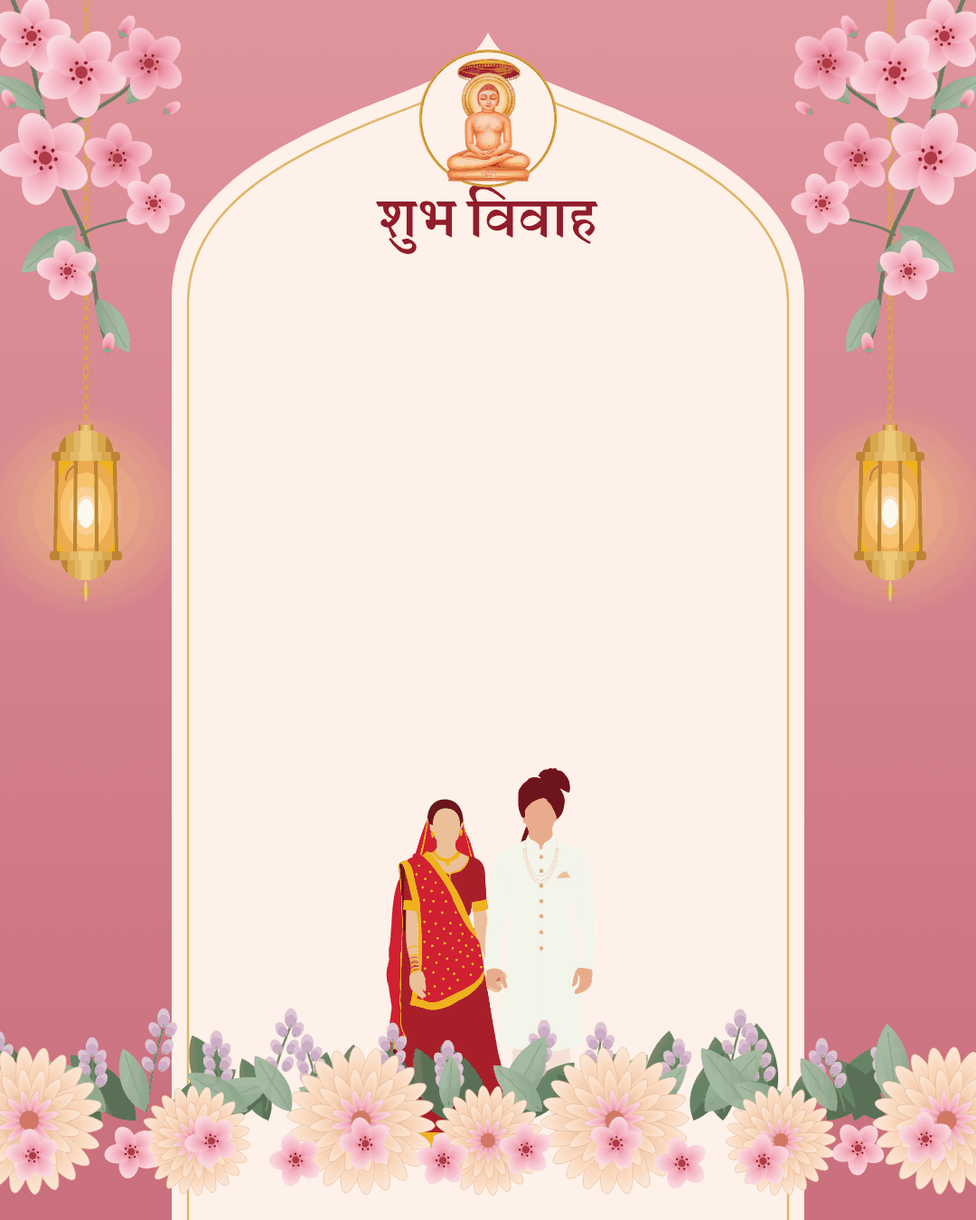
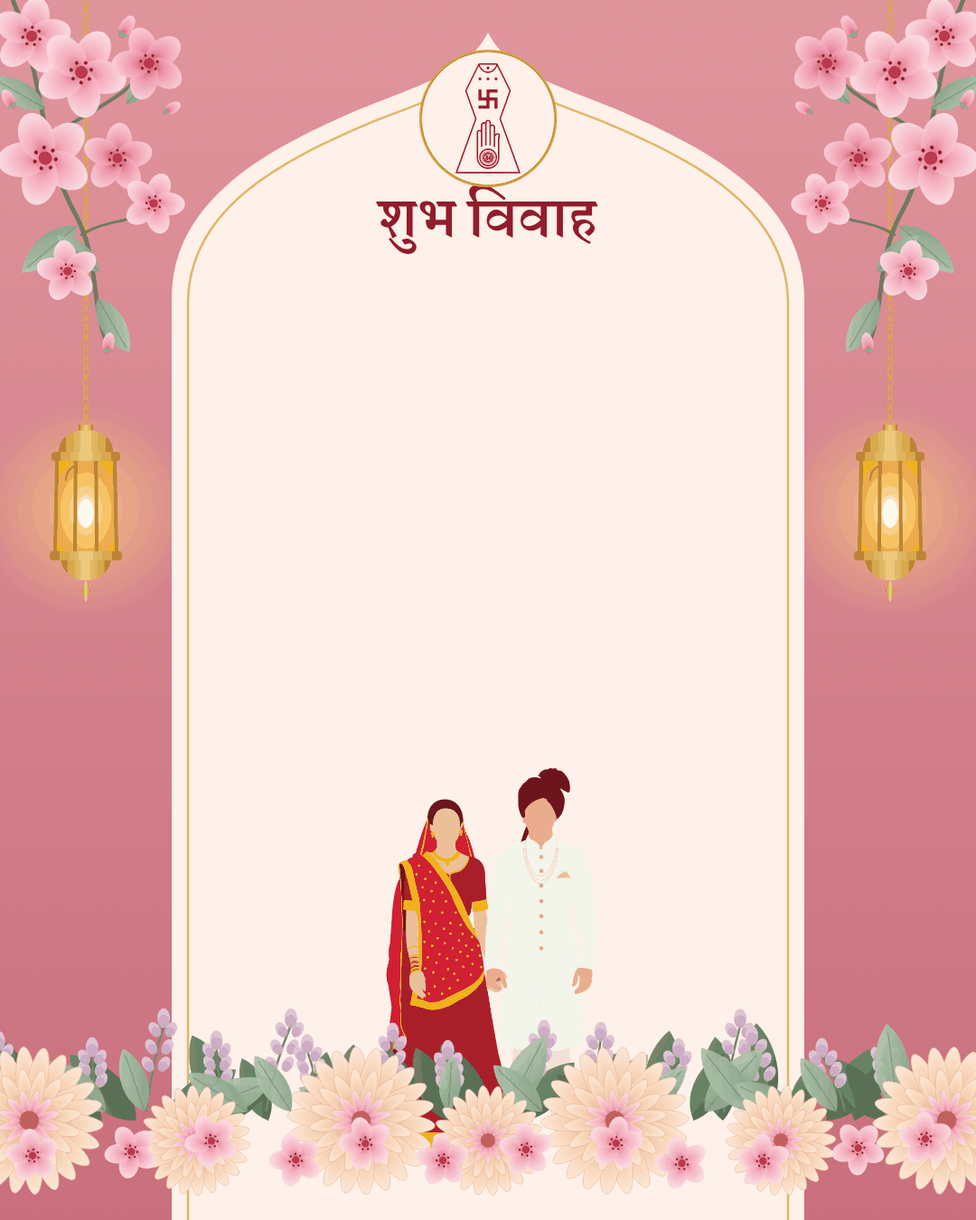
Show the Jain Prateek on a Jain invite instead of Bhagwan Mahaveer
The product owner asked for the Jain symbol in place of the picture of
Bhagwan Mahaveer. The Prateek is traced once with potrace from their
picture into one vector path (components/invite/jain-prateek-path.ts). The
opening card draws it in the Ganesh colour where Shri Ganesh stands. The
invite's arch shows the same path as public/invite/jain-prateek.svg, and the
share card shows it in the cream medallion. mahaveer.webp is removed.

Claude-Session: https://claude.ai/code/session_014q9NE1nsN31r1hYXvboVQM

Changed region(s): [[0.4583, 0.0311, 0.55, 0.1556]]

diff --git a/components/invite/jain-prateek-path.ts b/components/invite/jain-prateek-path.ts
@@ -1,0 +1,15 @@
+/**
+ * The Jain Prateek, the symbol of the Jain faith, as one vector path: the
+ * outline of the loka, the crescent and dot of the Siddhashila, the three
+ * dots of the three jewels, the swastika, and the raised hand with the
+ * wheel and "अहिंसा". The view box is 387 by 651. Fill it with
+ * `fill-rule="evenodd"`: the holes are sub-paths.
+ *
+ * Traced once with potrace from the product owner's picture (2026-11-03),
+ * upscaled 4x, so it stays sharp at any size. A Jain family's invite shows it
+ * in place of Shri Ganesh (`lib/invite-openings.ts`).
+ */
+export const JAIN_PRATEEK_VIEWBOX = { width: 387, height: 651 } as const;
+
+export const JAIN_PRATEEK_PATH =
+  'M141 5.8C140.4 5.9 139.7 6.2 139.4 6.4C139.2 6.7 137.3 10.2 135.2 14.4C133.2 18.5 129.8 25.5 127.6 30C121.1 43.2 114.7 56 110.1 65.4C100.8 84.3 96.2 93.6 93.4 99.2C88.8 108.6 80.9 124.8 71.4 143.8C63.1 160.6 61.5 164 61.5 165C61.5 165.8 63 170 70.1 189.9C70.8 191.7 72 195.2 72.9 197.6C73.7 200.1 74.9 203.2 75.4 204.6C76.9 208.7 77.4 210.2 79.1 215.1C80.9 220.3 81.7 222.3 84 228.9C84.8 231.2 85.8 234.1 86.2 235.2C87 237.5 88.1 240.5 89.8 244.9C90.3 246.4 91.3 249.2 92 251.1C95.6 261.3 96.3 263.4 97.3 266.2C98.8 270.3 100.7 275.6 102.5 280.8C103.3 283 105.1 288.1 106.5 292C107.9 295.9 109.8 301.1 110.6 303.6C111.5 306.1 112.7 309.4 113.2 310.9C119.3 327 119.4 327.3 117.4 332.5C116.8 334.2 115.6 337.7 114.7 340.2C113.8 342.8 112.3 346.7 111.5 348.9C110.7 351.1 109.5 354.2 109 355.9C108.4 357.5 107.2 360.8 106.3 363.2C103.7 370.3 103.2 371.8 100.8 378.5C99.6 382 98 386.4 97.2 388.4C96.5 390.3 95.3 393.6 94.6 395.6C92.3 402.4 89.9 408.9 88.3 413.1C87.7 414.5 86.9 416.8 86.4 418.2C85.9 419.7 84.9 422.6 84.1 424.8C81.7 431.2 80.6 434.4 79 438.9C77.7 442.7 76.1 447 74.4 451.8C72.4 457.3 70.3 463 68.9 467C68 469.5 67 472.2 66.7 472.9C66.2 474 63.4 481.8 62.2 485.2C62 486 61 488.6 60.1 491.1C59.2 493.6 57.9 497.4 57.1 499.5C56.4 501.6 55.3 504.6 54.8 506.1C54.2 507.6 53.1 510.8 52.3 513.1C51.4 515.4 50.5 517.9 50.1 518.7C49.8 519.5 49 521.6 48.4 523.5C47.8 525.4 46.9 527.9 46.4 529.1C45.1 532.6 43.5 537.2 41.5 542.6C40.5 545.4 38.8 550.1 37.7 553.1C36.6 556.1 35.4 559.4 35.1 560.4C34.8 561.3 34.1 563.2 33.6 564.6C33.1 566 32.5 567.9 32.1 568.9C31.8 569.8 31.1 571.7 30.6 573C29.1 576.9 28.1 579.8 25.9 586C24.7 589.3 23.6 592.5 23.3 593.1C22.1 596.2 19.6 603.1 17 610.6C16.3 612.5 15.4 615.2 14.9 616.6C14.3 618 13.6 620 13.2 621C12.9 622 12.1 624.2 11.5 625.8C10.9 627.3 10.2 629.4 10 630.3C9.7 631.3 9.3 632.4 9.1 632.8C8.8 633.5 8.4 634.5 6.4 640C5.3 642.9 5.3 643.8 6.2 644.4C7.2 645.1 378.9 645.2 380.2 644.6C381.8 643.8 381.7 642.2 379.8 637.4C378.6 634.4 376.8 629.6 376.2 628C375.6 626 374 621.7 372.3 616.9C371.4 614.5 369.9 610.5 369 607.9C367 602.3 365.3 597.5 363.5 592.6C362.8 590.7 361.5 587.3 360.8 585C360 582.7 358.9 579.8 358.4 578.4C357.9 577 356.7 573.9 355.8 571.5C354.1 566.9 352.6 562.8 350.2 556C349.4 553.7 348.2 550.3 347.5 548.4C346.8 546.5 346.1 544.6 346 544.2C345.1 541.5 340.7 529.2 339.6 526.5C339.1 525.2 338 522.3 337.2 520C336.4 517.7 335 513.7 334 511C332.2 506 331.9 505.2 329.3 497.9C328.5 495.5 327 491.6 326.1 489.1C325.2 486.6 323.9 482.9 323.1 480.8C322.4 478.6 321.3 475.5 320.6 473.9C320 472.2 319.1 469.8 318.6 468.5C317.5 465.4 313.5 454.2 312.5 451.5C311.7 449.5 309.2 442.4 306.9 435.7C306.2 433.9 305.4 431.5 304.9 430.3C304.4 429.1 303.3 426 302.4 423.4C299.3 414.8 297.8 410.7 296.5 407.1C295.1 403.4 293.5 399.1 291.4 392.9C290 388.9 288.6 385 285.9 377.8C285 375.3 283.7 371.6 282.9 369.5C282.2 367.4 280.8 363.6 279.9 361.1C279 358.6 277.9 355.7 277.5 354.5C276.8 352.5 276.2 350.6 274.3 345.6C272.5 340.7 270 333.9 270 333.7C270 333.5 269.6 332.3 269 330.9C267.8 328 267.8 327 268.7 324.9C269 324.1 270.2 320.8 271.3 317.6C272.4 314.5 273.8 310.5 274.5 308.8C275.2 307 276.6 303.1 277.6 300C278.7 296.9 280 293.2 280.6 291.8C281.1 290.3 282.2 287.4 282.9 285.2C283.6 283.1 284.8 280 285.4 278.2C286 276.5 286.8 274.3 287.1 273.4C287.4 272.4 288.2 270.3 288.7 268.8C290.4 264.1 292.7 257.5 293.4 255.6C293.7 254.7 294.5 252.5 295.1 250.8C295.8 249 296.7 246.6 297.2 245.2C297.6 243.9 298.6 241.3 299.3 239.4C300.9 234.7 303.2 228.2 304.8 223.9C305.5 221.9 306.7 218.5 307.5 216.1C308.3 213.8 309.7 209.8 310.6 207.2C311.6 204.7 312.6 201.9 312.9 201C313.2 200.1 313.9 198.2 314.4 196.9C314.9 195.5 315.5 193.8 315.7 193C316 192.2 317 189.4 318 186.8C319.9 181.7 321.3 177.8 323 172.6C323.6 171 324.3 168.9 324.6 168.1C325.1 167 325.2 166 325.2 165C325.2 163.4 325.2 163.3 317.7 148.2C313.6 139.9 309.5 131.7 308.7 130C306.7 125.8 300.7 113.7 293.5 99.1C290.2 92.5 286 84 284.1 80.1C282.2 76.3 278.3 68.2 275.3 62.1C272.3 56.1 268.7 48.8 267.3 46C264 39.3 250.8 12.6 249.2 9.3C248.4 7.8 247.6 6.5 247.2 6.2C246.7 5.8 244.1 5.8 194.4 5.7C165.4 5.6 141.6 5.6 141 5.8M146.8 13.8C146.1 14.4 146.1 14.8 146.7 16.5C151.2 28.9 160.7 40.8 171.6 47.6C175.5 50 182.3 52.6 185.6 52.9C186.4 53 188.2 53.2 189.5 53.4C194.3 54.2 202.9 53.1 208.4 51C215.5 48.3 224.1 41.9 229.4 35.3C232.9 31 238.2 22.3 239.3 19.1C239.4 18.6 239.8 17.7 240 17.2C240.8 15.6 240.9 14.6 240.2 13.9L239.5 13.2 193.4 13.2C147.6 13.2 147.2 13.3 146.8 13.8M246 23.3C245.7 23.6 244.7 25.3 243.9 27C239.3 35.9 233.9 42.8 227.1 48.5C218.1 56 210.7 59.3 199.4 61C193.8 61.9 192.6 61.9 190.1 61.4C189.2 61.2 187.4 60.9 186.2 60.7C175.4 59.5 164.2 53.5 155.2 44.1C149.7 38.3 146.5 33.7 142.8 26.5C141.2 23.3 140.8 22.8 139.8 23.1C139.3 23.3 137.3 27.1 129 44.1C126.5 49.2 122.7 57 120.5 61.4C118.3 65.8 114.8 72.9 112.7 77.1C96.3 110.7 94.5 114.4 92.2 118.9C91.4 120.4 89.9 123.5 88.8 125.8C85.7 132 80.9 142 75.1 153.6C72.3 159.4 69.9 164.5 69.8 165C69.7 166 70 167.2 71.4 170.9C71.9 172.1 73.1 175.5 74.1 178.4C76.4 184.9 76.6 185.5 79 191.9C80.1 194.8 81.2 198 81.6 199.1C82.5 202.2 85.2 209.6 86.2 212.1C86.7 213.4 87.4 215.3 87.8 216.5C88.4 218.5 89.1 220.3 92.1 228.8C92.8 230.9 93.6 232.9 93.8 233.3C93.9 233.6 94.9 236.3 95.9 239.2C96.9 242.2 97.9 245.2 98.3 246C98.6 246.8 99.4 249.1 100.2 251.2C100.9 253.4 102 256.3 102.5 257.8C103 259.2 104 261.9 104.6 263.9C105.9 267.6 106.4 269 109.4 277.1C110.4 279.9 111.5 283.1 111.9 284.1C112.2 285.1 113.7 289.2 115.1 293.2C116.6 297.3 118.6 303 119.7 305.9C120.7 308.8 121.7 311.6 121.9 312.1C122.1 312.7 122.4 313.6 122.6 314.1C122.8 314.7 123.8 317.4 124.8 320.1C127.6 328.2 127.6 327.1 124.8 334.9C124.3 336.4 123.2 339.3 122.5 341.2C121.8 343.2 121 345.4 120.7 346.1C120.5 346.8 119.4 349.8 118.3 352.8C117.3 355.7 115.5 360.5 114.4 363.5C113.3 366.5 111.8 370.7 111 373C110.2 375.3 108.9 379 108 381.2C107.2 383.5 105.9 387.2 105.1 389.4C104.4 391.6 103.2 394.8 102.6 396.5C102 398.2 100.9 401.3 100.1 403.4C99.4 405.4 98.3 408.4 97.7 410C97.2 411.6 96 414.7 95.2 416.9C94.4 419.1 92.9 423.2 91.9 426.1C90.8 429 89.3 433.3 88.5 435.6C87.7 438 86.5 441.1 86 442.5C85.5 443.9 84.8 445.7 84.5 446.5C83.4 449.8 78.7 462.9 76.7 468.4C76 470.3 75.2 472.5 73.9 476.1C73.1 478.4 70.1 486.6 69.6 487.8C69.4 488.2 68.9 489.6 68.5 490.9C66.1 497.8 63.9 504.1 62.5 507.8C61 511.8 60.5 513.1 58.5 518.9C57.9 520.5 57.1 522.9 56.6 524.2C56.1 525.6 55 528.6 54.1 531.1C53.2 533.6 51.6 537.9 50.6 540.8C47.8 548.6 45.9 553.9 44 559.1C43.1 561.7 41.7 565.5 41 567.5C39.4 571.9 36.9 578.8 35.5 582.9C34.9 584.5 34.1 586.8 33.6 588C32.4 591 31.7 592.9 29.6 599C26.8 606.8 25.5 610.5 25 611.9C24.3 613.8 22.9 617.5 21.5 621.5C20.9 623.5 19.5 627.3 18.5 630C16.6 635.3 16.5 635.5 17.2 636.2C17.7 636.7 18.1 636.8 193.5 636.8L369.2 636.8 369.8 636.2C370.4 635.6 370.4 635.3 368.6 630.4C367.8 628.3 366.7 625 366 623.1C364.8 619.7 363.9 617.3 362.1 612.4C360.9 609.2 359.1 604 357.4 599C356.7 596.9 355.8 594.3 355.4 593.4C354.3 590.5 351.3 582.4 350 578.7C349.3 576.8 348.2 573.7 347.5 571.9C346.8 570.1 345.6 566.8 344.9 564.6C343.6 560.7 341.1 553.7 339.3 549C337.3 543.5 335.4 538.1 333.9 533.9C333 531.4 331.9 528.3 331.4 527C329.3 521.6 328.7 519.8 328.2 518.5C327.3 515.7 324.2 507 323.4 504.8C322.8 503.4 321.7 500.2 320.7 497.5C318.7 491.5 316.9 486.6 315.4 482.5C314.7 480.8 313.7 478 313.1 476.2C312.5 474.5 311.2 470.9 310.2 468.2C306.3 457.5 304.7 453 303.6 450C303 448.3 302 445.3 301.3 443.4C300.5 441.4 299.4 438.3 298.7 436.4C296.3 429.2 293.4 421.2 292.7 419.8C292.4 419.1 292.2 418.4 289.7 411.2C288.8 408.7 287.2 404.4 286.2 401.8C285.2 399.1 283.8 395 283 392.8C282.2 390.5 280.3 385.3 278.9 381.2C277.4 377.2 275.6 372.2 274.9 370.1C273.5 366.1 270.8 358.9 269.4 355C268.9 353.7 267.8 350.7 267 348.4C265 342.5 261.7 333.5 260.8 331.2C259.5 328 259.8 325.9 262.2 320.1C262.9 318.4 264.9 312.8 267.1 306.2C268 303.7 269.1 300.6 269.6 299.2C270.1 297.9 270.7 296.4 270.9 295.9C271.1 295.3 271.7 293.5 272.4 291.8C273 290 274 287.2 274.6 285.5C275.2 283.8 277.1 278.6 278.7 273.9C280.4 269.2 282.4 263.6 283.1 261.5C283.9 259.4 285.3 255.3 286.4 252.4C288.7 245.9 289.2 244.5 290.7 240.2C291.3 238.4 292.1 236.2 292.4 235.4C293.1 233.7 295.4 227.5 296.6 224C297.1 222.7 298.1 219.7 299 217.2C301.1 211.3 302.3 207.9 304.7 201.1C305.8 198 307.2 194 307.9 192.2C309.2 188.6 310.1 186.3 310.9 183.9C312 180.6 313.2 177.1 314.2 174.5C316.6 168.2 317.1 166.8 317.2 165.7C317.3 164.5 317.1 164.1 311.4 152.7C308.2 146.2 304.2 138.1 302.5 134.6C300.8 131.2 297.5 124.3 295 119.4C287.5 104.1 281.1 91.3 279.5 87.9C278.7 86.1 275.7 80.1 272.9 74.5C270.1 68.9 265.8 60.1 263.2 54.9C252.7 33.4 247.6 23.4 247.1 23.1C246.6 22.7 246.5 22.8 246 23.3M191 24.4C189.5 24.9 187.6 26.3 186.6 27.7C184.3 30.7 184.7 35.9 187.4 38.6C190.5 41.7 196.8 41.7 199.5 38.6C201.9 35.9 202.6 32 201.2 29.2C199.2 25.3 194.7 23.1 191 24.4M144.6 87.8C137.3 90.1 136.4 99.9 143.1 103.5C144.8 104.4 148.7 104.4 150.5 103.6C155.7 101.2 157.1 94.1 153.1 90.1C151 88 147.1 87 144.6 87.8M190.7 87.8C187.1 89.2 185.1 92 185.1 95.9C185.2 99.4 186.7 101.9 189.7 103.4C191.6 104.4 195.5 104.4 197.1 103.6C203.5 100.2 203.5 91.8 197.3 88.4C195.6 87.5 192.3 87.2 190.7 87.8M237.4 87.9C236.1 88.3 233.9 89.9 233.2 90.8C230.9 94.1 231.2 98.7 233.9 101.7C236 104.1 240.5 104.9 243.7 103.5C247.9 101.6 249.7 95.9 247.3 91.7C245.4 88.3 240.9 86.6 237.4 87.9M139.8 157.5C139.6 157.5 139 157.8 138.7 158.2L138.1 158.8 138.1 189.8L138.1 220.7 138.7 221.3L139.3 221.9 161.2 222L183 222.1 183.6 222.8L184.2 223.5 184.2 236.5C184.2 249.2 184.2 249.5 183.8 250C183.5 250.3 183.1 250.5 182.8 250.5C182.6 250.5 173 250.5 161.6 250.5C147.5 250.5 140.4 250.6 139.8 250.8C138 251.2 138 251.4 138 259.7C138 266.9 138 267 138.6 267.6C138.9 268 139.5 268.4 140 268.5C140.5 268.5 154.5 268.6 171.1 268.5L201.2 268.4 201.8 267.8L202.4 267.2 202.5 245.4L202.6 223.5 203.3 222.8L204 222.1 216.8 222.1L229.5 222.1 230.1 222.8L230.8 223.5 230.8 244.9C230.8 267.8 230.7 267.6 232 268.2C232.4 268.4 234.9 268.5 239.9 268.5C248.2 268.5 248.3 268.5 248.7 266.8C249.1 265.5 249.1 207 248.7 205.7C248.2 203.9 249.8 204 225.9 204C202.3 204 203.3 204.1 202.8 202.5C202.4 201.4 202.4 178.1 202.8 177C203.3 175.4 202.3 175.5 226 175.5L247.5 175.5 248.1 174.9C248.9 174.1 249.1 172.6 249 165.3C248.9 158.8 248.8 158.3 247.7 157.7C247.3 157.5 239 157.4 216.6 157.5C184.6 157.5 185.4 157.4 184.8 158.5C184.7 158.7 184.6 168.6 184.5 180.5C184.4 203.7 184.4 203.1 183.1 203.7C182.7 203.9 178.6 204 169.9 204L157.3 204 156.7 203.4L156.1 202.7 156 181C155.9 157.9 155.9 158.4 154.7 157.8C154.2 157.5 141.3 157.2 139.8 157.5M190.1 334.1C184.8 335.3 179.8 340 178.1 345.4C177.1 348.7 176.8 348.9 174.4 348C172.3 347.2 166.3 347.1 164.2 347.8C159.6 349.4 155.9 353 154.2 357.4C153.1 360.2 153 362 153 378.3C153 390.9 153 392.5 152.6 393C152.1 393.7 151.4 393.6 148.1 392.6C146.2 392 145.6 392 143.8 392.1C136.6 392.6 130.9 397.3 128.9 404.2L128.4 406.1 128.3 480.8C128.2 558.4 128.2 557.3 129.3 564.5C132.1 583.7 145.9 602.4 163.7 611.5C167 613.2 173.5 615.9 174.8 616.1C175.2 616.2 176.6 616.6 177.9 616.9C183.8 618.5 185 618.6 193.6 618.6C201.4 618.6 201.7 618.6 205 617.9C224.2 614 238.4 604.3 249.2 588.1C253.2 582 257.6 569.9 258.5 562.4C259 558.3 259 553.4 259.1 500.8C259.2 438.5 259 441.9 261.7 430C263.5 422.5 263 418.7 260.1 415.5C255.5 410.5 245.3 411 237.1 416.5C235.9 417.4 235.1 417.4 234.8 416.8C234.6 416.5 234.5 408.1 234.5 395.1L234.4 373.9 233.3 371.5C231 366.5 228.8 364.2 224.2 362.2C221.4 360.9 216.2 360.7 212.9 361.9C210 362.9 209.9 362.7 209.7 354.3C209.5 344.3 208.9 342.4 204.8 338.4C200.6 334.5 195.4 333 190.1 334.1M191.4 341.9C188.9 342.7 187.2 344.2 186.1 346.6L185.4 348.1 185.2 355C185.2 358.8 185.1 388.2 185.2 420.4C185.2 466.8 185.2 479.1 184.9 480.1C184.5 481.8 183.7 482.3 181.4 482.5C179.3 482.6 178.4 482.3 177.8 481.3C177.4 480.7 177.4 477.9 177.2 420.8L177.1 360.9 176.5 359.8C175.5 357.8 174.9 357.2 173.1 356.2C171.5 355.4 171.2 355.4 169 355.4C165.4 355.4 163 356.8 161.5 360L160.9 361.4 160.8 425.7L160.6 490 159.9 490.6C159.3 491.2 159 491.2 156.8 491.2C154.4 491.2 153.7 491.1 153.3 490.3C153.2 490.1 153.1 471.1 153 448.2L152.9 406.6 152.2 405.2C148.8 398.5 140.2 398.4 136.9 405L136.1 406.6 136.1 481C136 547.1 136 555.7 136.4 558.6C139.1 580.9 151.9 598.1 172.4 606.6C179.6 609.6 183.7 610.4 193.4 610.4C202.7 610.4 206.9 609.7 213.9 607.1C218.8 605.2 226.9 600.5 230.3 597.4C231.7 596.1 233.3 594.7 234 594.1C239.1 589.9 246.2 578.4 248.3 571C251.5 560.1 251.3 565.3 251.3 501.6C251.3 445 251.3 441.7 252.4 436.2C253.3 431.3 253.5 430.2 254.2 427.5C255.8 421.5 254.9 419.9 250.2 420.1C243.5 420.4 238 424.6 235.3 431.5L234.6 433.4 234.5 461.7L234.4 490 233.8 490.6C233.2 491.2 230.2 491.5 228.4 491.1C226.5 490.8 226.6 496.5 226.5 432.1L226.4 374.6 225.7 373.5C224.2 370.9 221.1 369 218.3 369C215.8 369 214.4 369.6 212.5 371.5C209.6 374.3 209.9 367.9 209.8 428.2C209.8 466.2 209.7 480.6 209.5 481C208.9 482.1 206.1 482.6 203.9 482C202 481.4 202.2 487.9 202.1 414.5L202.1 348.9 201.5 347.3C199.8 342.9 195.5 340.6 191.4 341.9M189.2 500.9C188.9 501 187.5 501.2 186.1 501.4C181.3 502.1 174.4 504.3 171.1 506.1C162.6 510.9 157.2 515.5 152.2 522.4C147.9 528.4 145.8 533.3 143.3 543C142.6 546.1 142.7 558.6 143.5 562.2C145.2 570.1 148.8 578.2 152.7 583.2C157.4 589.1 163.4 594.5 168.5 597.4C174.2 600.5 182.9 603.5 186.8 603.5C187.4 603.5 188.6 603.7 189.5 603.9C195 605.1 210.4 602.6 214.6 599.9C214.9 599.7 215.8 599.2 216.6 598.9C220.3 597.5 226.8 592.9 230.5 589.2C232.1 587.6 237.2 581.2 238.4 579.2C240.5 576 242.9 570.1 244.2 565.1C244.6 563.3 245.1 561.5 245.2 561C245.7 559.5 245.6 545.1 245.1 543.5C244.9 542.7 244.5 541 244.1 539.6C238.6 516.9 217.4 500.6 193.8 500.8C191.6 500.8 189.6 500.9 189.2 500.9M191.5 508.6C189.5 510.7 188.2 510.9 185.6 509.3C183.6 508 180.9 508.6 180.1 510.5C179.4 512.2 179.1 512.5 178.2 513C177 513.6 176.2 513.6 174.8 513C173.3 512.3 172.9 512.4 171.3 513.4C169.5 514.6 169.4 514.8 169 516.5C168.6 518.8 167.1 520 164.7 520C162.8 520 161.8 520.9 161.8 522.7C161.8 525.8 160.4 527.4 157.2 528.1C156.2 528.3 154.5 530.1 154.4 531.1C154.3 531.6 154.4 532.3 154.7 533.2C155.6 535.5 154.9 537.2 152.4 538.4C150.1 539.6 149.6 541.5 150.9 544.2C152 546.5 152 548.2 150.9 549.6C148.7 552.3 148.6 553.3 150.3 554.9C152 556.5 152.2 558.7 150.9 560.8C150.1 561.9 150 563.8 150.6 564.7C150.9 565 151.8 565.7 152.6 566.3C154.8 567.7 155.5 569.3 154.6 571.4C153.7 573.7 155.3 576.3 158.1 577.1C160.6 577.8 161.5 579.1 161.5 581.9C161.5 583.7 162.9 584.7 165.3 584.7C166.4 584.8 168.4 585.9 168.9 586.7C169.1 587.2 169.3 588 169.4 588.6C169.6 589.8 169.8 590.1 171.4 591.3C172.7 592.3 173.2 592.4 174.6 591.9C177 590.9 179 591.6 180 593.9C180.8 595.8 181.1 596 183.2 595.9C184.5 595.8 185.2 595.6 186 595.2C188 594 190.3 594.4 191.4 596.1C192.1 597.2 192.7 597.3 193.3 596.7C193.8 596.2 193.8 596.3 193 591C192.7 589.4 192.5 587 192.4 585.6C192.3 584.2 192 582.3 191.9 581.3C191.1 577.3 190.2 577.9 188.1 584C186.5 588.8 184.9 592.2 184.3 592.2C183.5 592.2 183.2 589.6 183.9 586.6C184.9 581.6 185.3 576.8 184.8 576.1C183.9 575 183.3 575.6 179.1 581.3C176.6 584.8 173.8 588 173.3 588C172.7 588 173 586.6 173.9 584.3C177.8 574.9 178.1 573.8 177 573.8C176.2 573.8 175 574.6 172.1 577C167.4 580.9 165.5 582.1 164.9 581.5C164.4 581 164.8 580.5 169.3 574.7C173 570 173 569.9 172.9 569.4C172.8 568.5 171.5 568.6 169.1 569.8C167.9 570.4 166.1 571.2 165.1 571.6C164.2 572 162.9 572.6 162.3 572.9C161.8 573.2 160.7 573.6 160 573.7C158.8 573.8 158.8 573.8 158.8 573.2C158.8 572.5 159.1 572.2 162.8 569.4C163.4 568.9 164.3 568.1 164.9 567.7C165.5 567.2 166.9 566.2 168 565.4C170.4 563.6 171 562.8 170.4 561.9C169.9 561.2 169.3 561.1 167.6 561.5C165.9 561.9 159 562.7 157.1 562.7C155.2 562.8 154.7 562.5 155.3 561.7C155.7 561.2 160.9 558.8 164.1 557.6C169 555.8 167.8 554.7 160.4 554.3C155.5 554 153.2 553.3 153.2 552.2C153.2 551.6 154.4 551.3 157.4 551C158.8 550.9 160.2 550.7 160.5 550.5C160.9 550.4 162.4 550.1 163.9 550C165.4 549.8 166.8 549.6 166.9 549.4C167.9 548.7 167.1 548.2 160.8 545.8C155.8 544 153.6 542.6 154.5 542C155 541.6 159.7 541.9 162.8 542.5C167.5 543.4 169.5 543.6 170 543.1C171.1 542.1 170.3 541.3 164.4 537C162.2 535.4 160.1 533.7 159.7 533.3C158.9 532.5 158.9 531.7 159.6 531.5C160 531.5 167.4 534.3 169.8 535.5C172.2 536.7 173.2 536.4 172.4 534.7C172 533.8 169.4 530.2 167.6 528.1C166.1 526.3 164.8 524.2 164.8 523.7C164.8 522.4 167.5 524.2 174.3 529.8C176.5 531.7 177.1 531.9 177.6 531.5C178.2 531 178 530.2 176.1 526C173.2 519.6 172.4 517 173.3 517C173.6 517 175.4 518.9 176.5 520.3C183.1 529.2 183.7 529.8 184.7 528.7C185.3 528 185.2 526.3 184.4 521.1C183.3 514.5 183.3 512.2 184.4 512.7C184.8 512.8 186.5 516.1 186.5 516.6C186.5 516.8 186.9 517.9 187.3 518.9C187.8 520 188.4 521.7 188.8 522.6C189.5 524.9 190.2 526.2 190.6 526.2C191.5 526.2 191.7 525.2 192.4 519.2C193 513.7 193.7 510.1 194.1 510.5C194.5 510.9 196 518.7 196.1 521.1C196.3 524.3 196.6 525.7 197.1 525.9C197.7 526.1 198.4 525.3 198.9 524C200.2 520.5 203.1 513.3 203.3 513.1C203.7 512.6 204.4 512.7 204.6 513.1C204.9 514 204.5 517.7 203.5 523.9C202.9 527.1 203 528.3 203.8 528.8C204.5 529.3 205.3 528.7 206.6 527C210.9 521 214.4 516.8 214.9 516.8C216 516.8 215.7 518 213.4 523.1C210.7 529.1 210.5 529.6 210.5 530.4C210.5 531.9 211.3 531.5 216.4 527.5C222.3 522.8 223.5 522.2 223.5 523.6C223.5 524.4 222.5 525.8 217.5 532.1C215.6 534.4 215.3 535.1 215.8 535.7C216.3 536.3 217.3 535.9 222.9 533.4C225.5 532.2 228.7 531.1 229 531.4C229.4 531.8 229 532.7 228.3 533.2C227.9 533.4 227.2 534 226.6 534.5C225.6 535.4 222.6 537.7 219.9 539.6C218.3 540.8 217.4 542 217.6 542.7C217.8 543.3 218.5 543.6 219.2 543.4C219.8 543.2 226.8 542.3 229.6 542C231.9 541.8 233.9 541.9 234.1 542.3C234.4 542.7 228.7 545.3 224.1 546.9C219.6 548.5 219.5 550 224 550C224.9 550 226.2 550.2 227 550.4C227.7 550.6 229.7 550.9 231.3 551C234.5 551.4 235.2 551.6 234.9 552.4C234.6 553.3 231 554.2 227.9 554.3C225.9 554.3 222.1 554.9 221.6 555.3C221.4 555.4 221.3 555.8 221.3 556.1C221.4 556.6 222.1 557 226.5 558.7C231 560.5 231.7 560.8 232.2 561.4C233.7 563.1 230.8 563.2 222.5 561.8C218.4 561.2 218.6 561.2 218 561.7C217.1 562.6 217.9 563.8 220.8 565.6C221.6 566.2 222.5 566.9 222.7 567.1C222.9 567.4 223.7 568 224.5 568.5C228.8 571.6 230.5 573.3 229.6 573.7C229.1 573.9 226.8 573.3 225.6 572.7C225.1 572.4 223.2 571.6 221.5 570.8C216.6 568.7 215.6 568.4 215.3 569.1C215.2 569.6 217.3 572.8 218.8 574.4C221 576.8 223.5 580.4 223.5 581.2C223.5 582.5 222.2 582.1 219.7 579.9C218.8 579.2 217.7 578.3 217.1 577.9C216.6 577.5 215.3 576.4 214.3 575.6C212.3 573.8 211.5 573.4 210.9 573.6C210 573.9 210.6 575.6 214.3 583.5C216.5 588.3 215.8 589.8 213.1 586.4C211.6 584.7 208 579.8 206.3 577.4C205.5 576.2 204.6 575.6 203.9 575.9C203.2 576.2 203 577.4 203.4 579.9C203.6 581.3 203.9 583.2 204 584.1C204.1 585.1 204.4 587 204.6 588.5C205.5 594.4 203.6 593.3 200.9 586.1C198.6 579.9 198.1 579 197.4 579C196.9 579 196.5 580.4 196.2 583.1C196.1 584.8 195.7 587.4 195.4 589C194 597.1 194.1 598.3 196.2 596.1C198 594.2 200.2 594 202.4 595.5C203.5 596.2 203.7 596.3 205 596.1C206.8 595.9 207.4 595.4 208.4 593.6C208.9 592.8 209.5 591.9 209.9 591.7C210.9 591.1 212.7 591.1 213.6 591.8C214.9 592.6 215.1 592.5 218 590.3C218.5 589.9 218.8 589.3 219 588.5C219.6 586.2 221.2 584.8 223.3 584.8C225.5 584.8 226.5 583.8 226.5 582C226.5 579 227.5 577.7 229.9 577.2C231.2 577 231.6 576.8 232.6 575.7C234 574.2 234.2 573.6 233.5 572C232.5 569.6 233.1 568.1 235.7 566.6C237 565.8 237.7 565 238 563.7C238.3 562.8 238.2 562.6 237.3 560.7C235.8 557.8 236 556.7 238.1 554.7C239.9 552.9 239.8 551.7 237.9 550.1C235.9 548.5 235.5 546.3 236.9 544.5C238.2 542.7 238.3 542.2 238 541.2C237.6 539.9 236.9 539.1 235.5 538.4C233.1 537.2 232.5 535.5 233.6 533.1C234.1 532.1 234.2 531.5 234.1 531C233.9 530.1 231.7 528 230.9 528C230 528 227.9 526.9 227.4 526.1C227.1 525.7 226.8 524.6 226.6 523.5C226.2 520.7 225.4 519.8 223.6 520.1C221.3 520.5 219.1 518.7 218.7 516C218.4 514.8 217.7 513.9 216.4 513.2C215.4 512.7 214.8 512.7 213 513.4C211 514.1 209.4 513.4 208.6 511.3C208 509.7 207.4 509 206.3 508.9C205.8 508.8 205 508.6 204.6 508.5C203.8 508.2 203.6 508.3 202.2 509.2C200 510.7 198.8 510.7 196.8 509.1C195.7 508.2 195.2 507.9 194.5 507.9C194 507.9 193.4 507.8 193.1 507.7C192.6 507.5 192.3 507.7 191.5 508.6M189.5 532.2C182 533.9 175.2 541 173.9 548.3C172.6 555.3 174.4 561.3 179.3 566.6C181.2 568.7 185.6 571.4 187.8 571.9C188.2 572 189.2 572.2 190 572.5C192.7 573.4 195.3 573.4 198.5 572.5C200.1 572.1 202.3 571.4 203.3 570.9C206.2 569.4 210.5 565.2 210.5 563.9C210.5 563.7 208.2 562.7 208 562.8C207.9 562.9 207.6 563.6 207.4 564.5C206.5 567.8 204.8 567.8 204 564.4C203.6 562.8 203.6 562.8 202.6 563.9C201.7 564.9 201.2 565.9 200.8 567.1C200.6 567.8 200.5 567.9 199.3 567.9C197.6 567.9 197.2 567.5 197.3 565.9C197.3 565 197.4 564.3 197.9 563.6C198.7 562.3 198.7 561.6 197.8 560.2C196.6 558.4 195.4 558 194.6 559.2C193.5 560.8 194.4 566.1 195.9 567.1C196.8 567.7 196.7 569.3 195.7 569.5C195 569.5 193.7 568.9 192.9 568C192.1 567.1 191.3 567.3 190.8 568.6C190.3 569.8 189.7 570.1 189 569.8C188.1 569.2 188 568.3 188 553.4L187.9 539 188.6 537.9C190 535.5 191.6 534.6 194.8 534.6C197.9 534.6 200.7 536.5 200.4 538.4C200.1 540.2 199.4 540.1 196.9 538.2C195 536.8 194.7 536.8 193 537.9C191.4 539 191 540 191 543.2C191 547.2 191.4 547.8 193 546.1C194.4 544.6 195.2 544.3 195.8 545C196.4 545.8 196.4 546.1 195.6 546.7C193.9 547.9 193.9 551.2 195.6 552.7C196.2 553.3 197 553.3 198.5 552.5C199.8 551.9 200.4 549.1 199.9 546.1C199.5 543.6 199.6 542 200 541.7C200.7 541.3 202.2 542.1 202.8 543.1C203.5 544.3 203.7 544 204 541.8C204.5 538.6 204.7 538.2 205.6 538.2C206.6 538.2 206.9 538.6 207.2 540.1C207.7 542.2 207.9 542.5 209.1 542.4C211 542.3 211 542.6 211 553.6C211 564 211 563.8 212.6 561.5C214.8 558.3 215.5 550.9 214 546.7C210.3 535.9 200 529.9 189.5 532.2M184.6 537.1C184.2 537.4 183.9 538.1 183.6 539.2C183.1 541.3 183 541.4 181.9 541C181.2 540.7 180.9 540.7 180 541.1C177.9 542.1 177.4 543.6 178.9 545.1C179.9 546.1 180.1 547.2 179.9 549.7C179.8 550.8 179.7 552.2 179.8 553C179.8 553.8 179.8 555.4 179.9 556.7L179.9 559 178.8 559.9C177.6 561.1 177.5 561.7 178.4 562.7C179.2 563.7 180.3 564.1 181.6 563.9C183 563.8 183.1 563.9 183.6 566.1C184.1 568 184.5 568.5 185.5 568.5C187.1 568.5 187 568.9 186.9 552.6C186.9 538.5 186.9 537.8 186.4 537.3C185.8 536.7 185.3 536.6 184.6 537.1M194.4 540.5C193.3 541.6 194.6 544.4 195.7 543.4C196.4 542.8 196.6 541.4 196.3 540.6C196 539.9 195 539.8 194.4 540.5M197.7 553.9C196.9 554.7 198.8 557.7 199.6 557C200.2 556.5 200.1 555.2 199.3 554.4C198.7 553.8 198 553.6 197.7 553.9M191.2 554.6C190.9 555.4 191 557.2 191.4 557.5C192.4 558.4 193.3 556.8 192.7 555.2C192.3 554.2 191.4 553.9 191.2 554.6';

diff --git a/components/invite/ShubhVivahInvite.tsx b/components/invite/ShubhVivahInvite.tsx
@@ -106,7 +106,7 @@ export interface ShubhVivahInviteProps {
    */
   families?: WeddingFamilies | undefined;
   /**
-   * Shri Ganesh and the Ganesh shloka, or Bhagwan Mahaveer and the Jain
+   * Shri Ganesh and the Ganesh shloka, or the Jain Prateek and the Jain
    * Mangal shloka for a Jain family (`lib/invite-openings.ts`). Default: Ganesh.
    */
   opening?: InviteOpening | undefined;
@@ -114,16 +114,29 @@ export interface ShubhVivahInviteProps {
 }
 
 /**
- * The picture in the mehrab arch. Shri Ganesh is square; Bhagwan Mahaveer,
- * seated under his chhatra, is taller, so he is drawn narrower to stand about
- * as high on the page.
+ * The picture in the mehrab arch: Shri Ganesh, or the Jain Prateek for a Jain
+ * family. The Prateek is tall and narrow, so it is drawn narrower to stand
+ * about as high on the page. It is an SVG, which the image optimiser leaves
+ * as it is (`unoptimized`).
  */
 const OPENING_PICTURE: Record<
   InviteOpening,
-  { src: string; width: number; height: number; className: string }
+  { src: string; width: number; height: number; className: string; vector: boolean }
 > = {
-  ganesh: { src: '/invite/ganesha.png', width: 480, height: 480, className: 'w-33' },
-  jain: { src: '/invite/mahaveer.webp', width: 457, height: 671, className: 'w-24' },
+  ganesh: {
+    src: '/invite/ganesha.png',
+    width: 480,
+    height: 480,
+    className: 'w-33',
+    vector: false,
+  },
+  jain: {
+    src: '/invite/jain-prateek.svg',
+    width: 387,
+    height: 651,
+    className: 'w-20',
+    vector: true,
+  },
 };
 
 const TOGETHERNESS = 'A lifetime of togetherness begins with one sacred step';
@@ -280,7 +293,7 @@ export function ShubhVivahInvite({
     <div className={cn('bg-jewel-maroon-deep flex flex-col', className)}>
       <article className="jewel-page flex-1">
         <PetalShower />
-        {/* Shri Ganesh (or Bhagwan Mahaveer) in the mehrab arch, over the names. */}
+        {/* Shri Ganesh (or the Jain Prateek) in the mehrab arch, over the names. */}
         <header data-preview-section="names" className="jewel-section jewel-bg-hero">
           <Jaali />
           <div className="relative">
@@ -291,6 +304,7 @@ export function ShubhVivahInvite({
                 width={picture.width}
                 height={picture.height}
                 priority
+                unoptimized={picture.vector}
                 className={cn('mx-auto mb-3.5 block h-auto', picture.className)}
               />
               {opener.om && (

diff --git a/components/invite/GaneshCover.tsx b/components/invite/GaneshCover.tsx
@@ -1,4 +1,5 @@
 import { GANESHA_PATH, GANESHA_VIEWBOX } from '@/components/invite/ganesha-path';
+import { JAIN_PRATEEK_PATH, JAIN_PRATEEK_VIEWBOX } from '@/components/invite/jain-prateek-path';
 import { INVITE_OPENING_TEXT, type InviteOpening } from '@/lib/invite-openings';
 import { cn } from '@/lib/utils';
 
@@ -19,19 +20,19 @@ import { cn } from '@/lib/utils';
  * above the greeting that `InviteGate` lays over the foot. Decoration (`aria-hidden`): `InviteGate` names
  * the card for a screen reader.
  *
- * For a Jain family (`opening="jain"`) the same card shows Bhagwan Mahaveer,
- * seated in meditation, and "श्री महावीराय नमः". He is the cut-out picture
- * the invite uses, not a tracing: a one-colour silhouette loses his face.
+ * For a Jain family (`opening="jain"`) the same card shows the Jain Prateek,
+ * the symbol of the faith, and "श्री महावीराय नमः". It is a vector path
+ * too, traced from the product owner's picture, in the same colour.
  */
 
 export interface GaneshCoverProps {
-  /** Shri Ganesh, or Bhagwan Mahaveer for a Jain family. Default: Ganesh. */
+  /** Shri Ganesh, or the Jain Prateek for a Jain family. Default: Ganesh. */
   opening?: InviteOpening | undefined;
   className?: string;
 }
 
-/** Bhagwan Mahaveer's picture, as tall as Shri Ganesh's path, in the same place. */
-const MAHAVEER = { src: '/invite/mahaveer.webp', width: 201, height: 295 } as const;
+/** The Jain Prateek, as tall as Shri Ganesh's path, in the same place. */
+const PRATEEK_SCALE = GANESHA_VIEWBOX.height / JAIN_PRATEEK_VIEWBOX.height;
 
 const W = 400;
 const H = 720;
@@ -187,13 +188,12 @@ export function GaneshCover({
       </g>
 
       {opening === 'jain' ? (
-        /* Bhagwan Mahaveer. */
-        <image
-          href={MAHAVEER.src}
-          x={(W - MAHAVEER.width) / 2}
-          y="178"
-          width={MAHAVEER.width}
-          height={MAHAVEER.height}
+        /* The Jain Prateek. */
+        <path
+          d={JAIN_PRATEEK_PATH}
+          fill="var(--color-ganesh)"
+          fillRule="evenodd"
+          transform={`translate(${round((W - JAIN_PRATEEK_VIEWBOX.width * PRATEEK_SCALE) / 2)} 178) scale(${round(PRATEEK_SCALE * 1000) / 1000})`}
         />
       ) : (
         /* Shri Ganesh. */

diff --git a/components/invite/ShubhVivahInvite.test.tsx b/components/invite/ShubhVivahInvite.test.tsx
@@ -44,14 +44,14 @@ describe('ShubhVivahInvite', () => {
     expect(screen.getByText('invite you to our wedding')).toBeInTheDocument();
   });
 
-  it('opens with Bhagwan Mahaveer and the Jain Mangal shloka, with no Om, for a Jain family', () => {
+  it('opens with the Jain Prateek and the Jain Mangal shloka, with no Om, for a Jain family', () => {
     const { container } = render(<ShubhVivahInvite {...full} opening="jain" />);
     expect(screen.getByText('॥ श्री महावीराय नमः ॥')).toBeInTheDocument();
     expect(screen.getByText('मंगलम् भगवान वीरो, मंगलम् गौतमो गणी ।')).toBeInTheDocument();
     expect(screen.getByText('मंगलम् कुन्द कुन्दाद्यौ, जैन धर्मोस्तु मंगलम् ॥')).toBeInTheDocument();
     expect(screen.queryByText('॥ ॐ ॥')).toBeNull();
     expect(screen.queryByText('॥ श्री गणेशाय नमः ॥')).toBeNull();
-    expect(container.querySelector('img')?.getAttribute('src')).toContain('mahaveer');
+    expect(container.querySelector('img')?.getAttribute('src')).toContain('jain-prateek');
   });
 
   it('hides the date under three scratch cards', () => {

diff --git a/lib/invite-openings.ts b/lib/invite-openings.ts
@@ -1,6 +1,6 @@
 /**
  * How a couple's invite opens: with Shri Ganesh and the Ganesh shloka, as
- * every Hindu card does, or with Bhagwan Mahaveer and the Jain Mangal shloka
+ * every Hindu card does, or with the Jain Prateek and the Jain Mangal shloka
  * for a Jain family. The choice changes the gate card, the top of the invite and
  * the WhatsApp share card, and nothing else: the maroon-and-gold look stays.
  *
@@ -18,7 +18,7 @@ export const DEFAULT_INVITE_OPENING: InviteOpening = 'ganesh';
 /** What the choice is called on `/admin`. */
 export const INVITE_OPENING_LABELS: Record<InviteOpening, string> = {
   ganesh: 'Shri Ganesh, with the Ganesh shloka',
-  jain: 'Bhagwan Mahaveer, with the Jain Mangal shloka',
+  jain: 'Jain Prateek, with the Jain Mangal shloka',
 };
 
 export interface InviteOpeningText {

diff --git a/components/invite/GaneshCover.test.tsx b/components/invite/GaneshCover.test.tsx
@@ -17,10 +17,11 @@ describe('GaneshCover', () => {
     expect(container.querySelector('img, image')).toBeNull();
   });
 
-  it('shows Bhagwan Mahaveer and his salutation for a Jain family', () => {
+  it('draws the Jain Prateek and the salutation for a Jain family, with no image', () => {
     const { container } = render(<GaneshCover opening="jain" />);
     expect(screen.getByText('श्री महावीराय नमः').tagName.toLowerCase()).toBe('text');
     expect(screen.queryByText('श्री गणेशाय नमः')).toBeNull();
-    expect(container.querySelector('image')).toHaveAttribute('href', '/invite/mahaveer.webp');
+    expect(container.querySelector('img, image')).toBeNull();
+    expect(container.querySelector('path[fill-rule="evenodd"]')).not.toBeNull();
   });
 });

diff --git a/app/api/og/[slug]/route.tsx b/app/api/og/[slug]/route.tsx
@@ -22,7 +22,7 @@ import { getWeddingBySlug } from '@/services/wedding.service';
  * The artwork is one fixed picture, `public/invite/og-card.png`: the arch,
  * blossoms, lanterns, the couple (a licensed Vecteezy vector), the Ganesha
  * and "शुभ विवाह". A Jain family's invite (`opening: 'jain'`) uses
- * `og-card-jain.png` instead: the same card with Bhagwan Mahaveer in a cream
+ * `og-card-jain.png` instead: the same card with the Jain Prateek in a cream
  * medallion where the Ganesha stands. The renderer (satori) does not shape Devanagari, so the
  * Devanagari title is part of the picture, not text. Only the guest, the
  * names and the date are drawn here. The picture is a 256-colour PNG, which

diff --git a/services/admin.service.ts b/services/admin.service.ts
@@ -331,7 +331,7 @@ export async function changeWeddingSong(
 }
 
 /**
- * Sets how a live invite opens: Shri Ganesh, or Bhagwan Mahaveer and the
+ * Sets how a live invite opens: Shri Ganesh, or the Jain Prateek and the
  * Jain Mangal shloka for a Jain family. The preview it was paid from gets the same
  * opening, so the two never disagree.
  */
@@ -921,7 +921,7 @@ export async function changePreviewNameOrder(
 }
 
 /**
- * Sets how a preview opens: Shri Ganesh, or Bhagwan Mahaveer and the Jain
+ * Sets how a preview opens: Shri Ganesh, or the Jain Prateek and the Jain
  * Mangal shloka for a Jain family. When the couple has paid, the live invite gets
  * the same opening, so the two never disagree.
  */

diff --git a/app/(admin)/admin/previews/[id]/page.tsx b/app/(admin)/admin/previews/[id]/page.tsx
@@ -480,7 +480,7 @@ export default async function AdminPreviewPage({
               <h2 className="text-heading">Opening</h2>
               <p className="text-small text-ink-soft">
                 The picture and the prayer at the top of the invite and on its opening card. Choose
-                Jain for a Jain family: Bhagwan Mahaveer and the Jain Mangal shloka.
+                Jain for a Jain family: the Jain Prateek and the Jain Mangal shloka.
                 {wedding !== null && ' The couple has paid, so the live invite changes too.'}
               </p>
               <AdminActionForm

diff --git a/app/(admin)/admin/invites/[id]/page.tsx b/app/(admin)/admin/invites/[id]/page.tsx
@@ -234,7 +234,7 @@ export default async function AdminInvitePage({
               <h2 className="text-heading">Opening</h2>
               <p className="text-small text-ink-soft">
                 The picture and the prayer at the top of the invite and on its opening card. Choose
-                Jain for a Jain family: Bhagwan Mahaveer and the Jain Mangal shloka. The preview it
+                Jain for a Jain family: the Jain Prateek and the Jain Mangal shloka. The preview it
                 was paid from changes too.
               </p>
               <AdminActionForm

diff --git a/components/invite/InviteGate.tsx b/components/invite/InviteGate.tsx
@@ -57,7 +57,7 @@ export interface InviteGateProps {
   couple: string;
   /** The couple's song. The tap that opens the invite starts it. */
   song?: { name: string; src: string } | null;
-  /** Shri Ganesh on the card, or Bhagwan Mahaveer for a Jain family. Default: Ganesh. */
+  /** Shri Ganesh on the card, or the Jain Prateek for a Jain family. Default: Ganesh. */
   opening?: InviteOpening | undefined;
   /** Pinned to the top of the screen at every phase, over the card too. */
   top?: React.ReactNode;

diff --git a/services/wedding.service.ts b/services/wedding.service.ts
@@ -101,7 +101,7 @@ export const weddingSchema = z.object({
    */
   nameOrder: z.enum(NAME_ORDERS).optional(),
   /**
-   * Shri Ganesh and the Ganesh shloka, or Bhagwan Mahaveer and the Jain
+   * Shri Ganesh and the Ganesh shloka, or the Jain Prateek and the Jain
    * Mangal shloka for a Jain family, at the top of the invite and on its gate card
    * (`lib/invite-openings.ts`). Only an admin sets it. Optional: absent
    * means Shri Ganesh, so no backfill.
